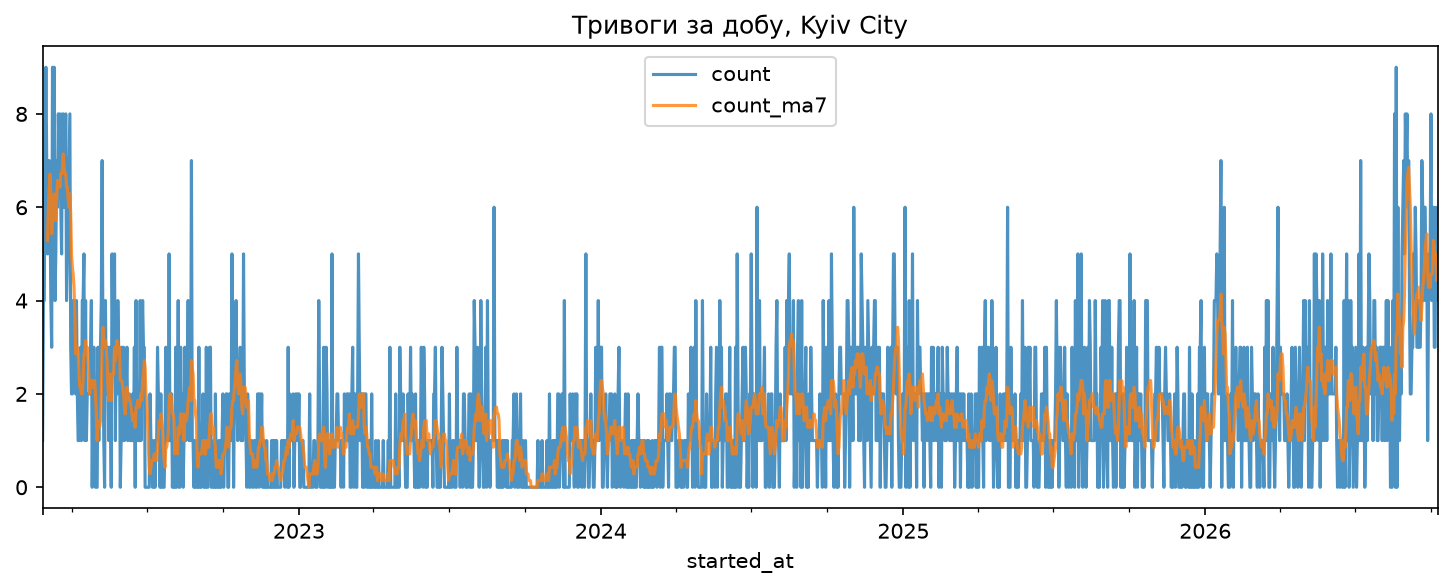
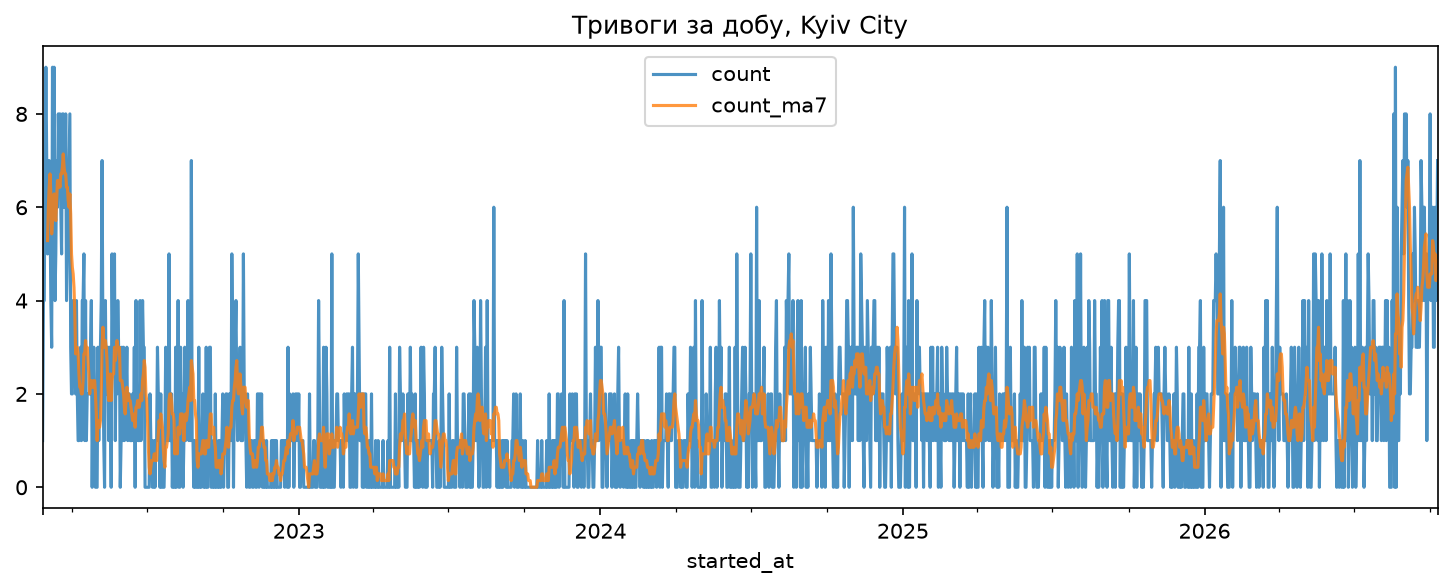
Add Wilcoxon test, update data and README

diff --git a/README.md b/README.md
@@ -1,14 +1,83 @@
-# KSE_air-raid-prediction
-Репозиторій тестового проєкту для KSE відносно аналізу числового ряду повітряних тривог
+# Аналіз часових рядів сигналів повітряної тривоги в Україні
 
-KSE Air Raid Prediction
-Goal
-Analyze Ukrainian air raid alert data and build a model to predict future alerts using historical data.
+Навчальний проєкт: історичний аналіз добової кількості тривог у Києві та
+Хмельницькій області (лютий 2022 - жовтень 2026). Це **аналіз для ситуаційної
+обізнаності**, а не інструмент прогнозу конкретних ударів.
 
-Dataset
-Source: https://github.com/Vadimkin/ukrainian-air-raid-sirens-dataset
+## Дані
 
-File: data/volunteer_data_uk.csv
+Волонтерський датасет
+[ukrainian-air-raid-sirens-dataset](https://github.com/Vadimkin/ukrainian-air-raid-sirens-dataset).
+Копія, яку використовує скрипт, лежить у `data/volunteer_data_en.csv`
+(англомовні назви регіонів; дані станом на 11 жовтня 2026). Файл
+`data/volunteer_data_uk.csv` це версія з українськими назвами, скрипт її не
+використовує.
 
-Status
-Project is in the exploratory analysis stage.
+Колонки: `region`, `started_at`, `finished_at`, `naive`. Час у даних у UTC,
+скрипт переводить його в `Europe/Kyiv`. Дані поширюються за ліцензією
+джерела, детальніше в репозиторії датасету.
+
+## Що робить скрипт
+
+1. Рахує тривоги по добах (часовий ряд) і ковзне середнє за 7 днів.
+2. Будує теплокарту «день тижня × година початку».
+3. Розкладає ряд методом STL на тренд, сезонність і залишок.
+4. Знаходить аномальні дні (залишок більше 3 стандартних відхилень).
+5. Перевіряє прогноз ковзною перевіркою: 94 відрізки по 14 днів, порівняння
+   експоненційного згладжування (з трендом і без) із наївним прогнозом
+   (середнє за останні 7 днів) і тест Вілкоксона на парних різницях помилок.
+
+Остання (неповна) доба в даних у аналіз не входить.
+
+## Запуск
+
+Дані вже є в `data/`, окремо завантажувати нічого не треба.
+
+```bash
+python -m venv .venv
+.venv\Scripts\activate          # Windows; на Mac/Linux: source .venv/bin/activate
+pip install -r requirements.txt
+python src/analysis.py "Kyiv City"
+python src/analysis.py "Khmelnytska oblast"
+```
+
+Назви регіонів беруться з колонки `region`. Якщо назву вказано невірно,
+скрипт виводить список доступних. Результати зберігаються в `outputs/` із
+префіксом регіону. Інший файл даних можна вказати параметром `--file`.
+
+## Результати
+
+### Київ
+![Тривоги за добу](outputs/Kyiv_City_daily.png)
+![Теплокарта](outputs/Kyiv_City_heatmap.png)
+![Помилки прогнозу](outputs/Kyiv_City_rolling_validation.png)
+
+### Хмельницька область
+![Тривоги за добу](outputs/Khmelnytska_oblast_daily.png)
+![Теплокарта](outputs/Khmelnytska_oblast_heatmap.png)
+![Помилки прогнозу](outputs/Khmelnytska_oblast_rolling_validation.png)
+
+## Висновки
+
+- В обох регіонах добова кількість тривог змінюється хвилями, без стійкого
+  тренду чи сталого тижневого циклу.
+- У Києві найвиразніший сплеск припадає на серпень-вересень 2026.
+- У Хмельницькій області тривоги частіше починаються вночі й зранку; це
+  візуальне спостереження, формально не перевірене. У Києві чіткого
+  часового патерну немає.
+- Експоненційне згладжування покращує середню помилку лише на 4-5% відносно
+  наївного прогнозу (Київ: 1,03 проти 1,08; Хмельницька: 0,76 проти 0,79).
+- Для Києва перевага моделі з трендом ледь помітна статистично (тест
+  Вілкоксона, p = 0,042), для моделі без тренду недостовірна (p = 0,190).
+  Для Хмельницької області різниця недостовірна (p = 0,204 і 0,248).
+- Помилка прогнозу найбільша в періоди різкої зміни рівня.
+
+## Обмеження
+
+- Дані волонтерські, частина тривалостей оцінена (колонка `naive`, 30 хв).
+- Тривоги залежать від рішень людей, а не від природних закономірностей;
+  минулі закономірності можуть не діяти в майбутньому.
+- Аналіз стосується лише добових підрахунків двох регіонів.
+- Причини змін рівня з даних встановити не можна.
+- Поріг аномалій розрахований на симетричний розподіл, а ряд несиметричний.
+- p-значення орієнтовні: тест не враховує зв'язок між сусідніми відрізками.
